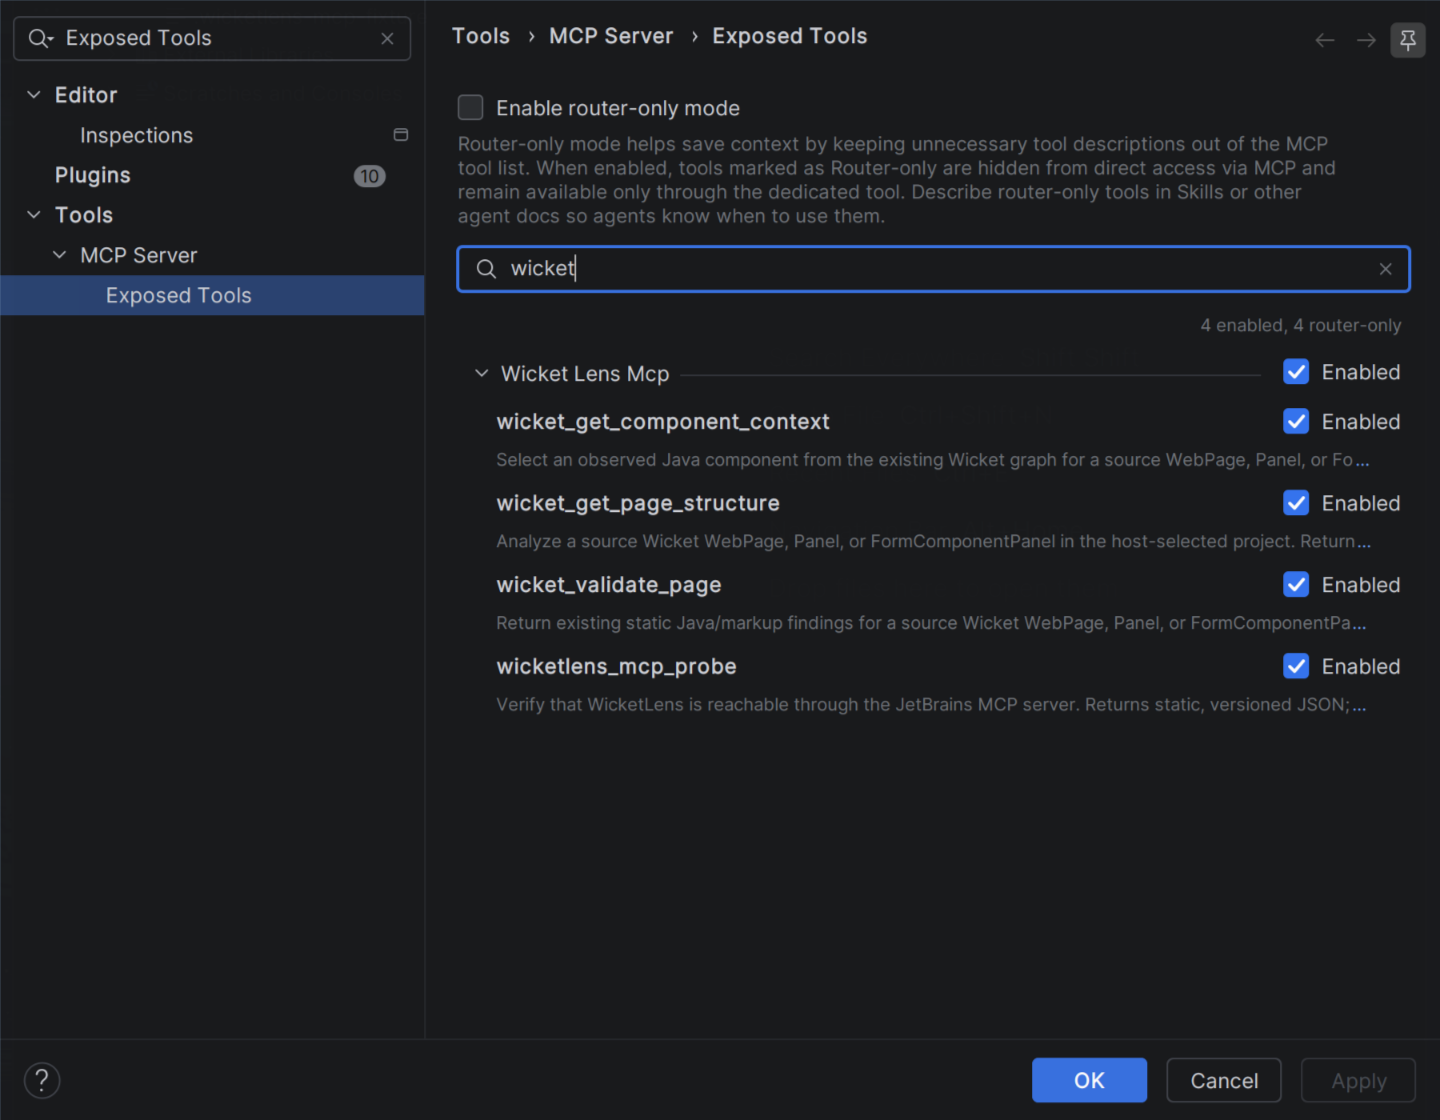
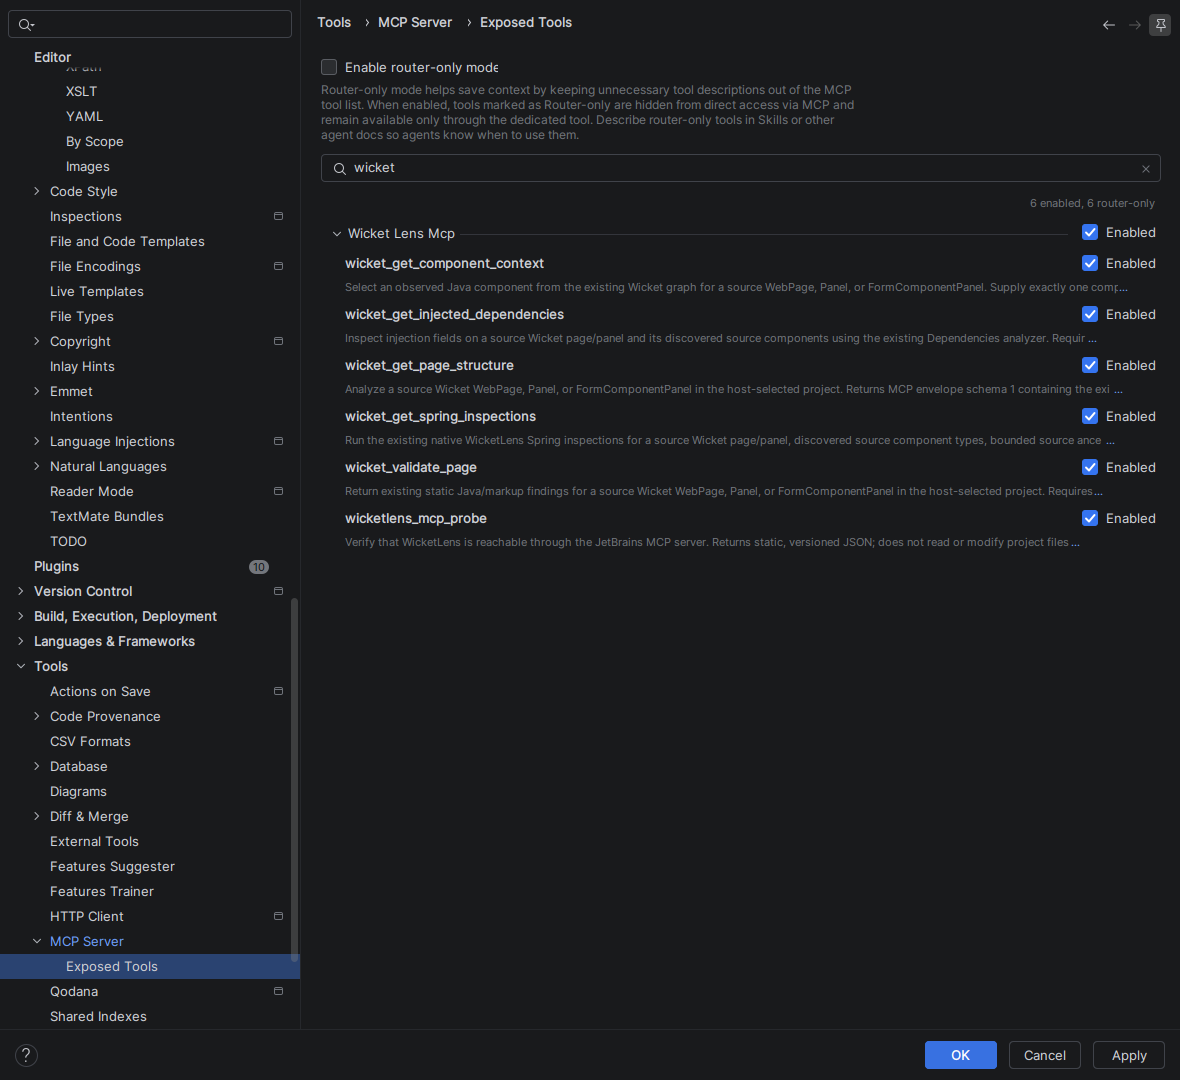
docs: prepare downloadable GitHub preview release

diff --git a/site/index.html b/site/index.html
@@ -43,7 +43,7 @@
             <p class="lead">Your Java components and HTML markup belong together. Explore the hierarchy, follow their connections, and investigate missing pairs—right inside your IDE.</p>
             <div class="actions"><a class="button button-primary" href="#install">Try WicketLens <span aria-hidden="true">→</span></a><a class="button button-secondary" href="#in-action">See it in action <span aria-hidden="true">↓</span></a></div>
             <div class="hero-meta"><span><span class="check" aria-hidden="true">✓</span> Open source · Apache 2.0</span><span><span class="check" aria-hidden="true">✓</span> Static analysis in your IDE</span></div>
-            <p class="preview-note">Local preview. Install from a plugin ZIP; not on Marketplace yet.</p>
+            <p class="preview-note">Preview ZIP available on GitHub. Download and install; not on Marketplace yet.</p>
           </div>
 
           <div class="binding-demo" aria-label="Illustrative Java and HTML component binding">
@@ -99,14 +99,14 @@ add(form);</code></pre></div>
 
     <section class="install" id="install" aria-labelledby="install-title">
       <div class="wrap">
-        <div class="install-heading"><div class="section-head"><p class="kicker">Open source · local preview</p><h2 id="install-title">Put WicketLens<br>beside your code.</h2><p>Not on JetBrains Marketplace yet. Build a plugin ZIP from the repository, then install it from disk.</p></div><a class="button button-secondary" href="https://github.com/danielbartl/wicketlens">View on GitHub <span aria-hidden="true">↗</span></a></div>
+        <div class="install-heading"><div class="section-head"><p class="kicker">Open source · preview release</p><h2 id="install-title">Put WicketLens<br>beside your code.</h2><p>Download the ready-to-install ZIP from GitHub, then install it from disk. No local build required. Not on JetBrains Marketplace yet.</p></div><a class="button button-secondary" href="https://github.com/danielbartl/wicketlens/releases/tag/v0.1.0-preview.1">Release notes <span aria-hidden="true">↗</span></a></div>
         <div class="install-grid">
-          <article class="build-step"><div class="step-heading"><span class="step-number">1</span><h3>Build the ZIP</h3></div><p>Select a Java 25 JDK, then run:</p><div class="terminal"><div class="terminal-title"><span>Terminal</span><button id="copy-build" type="button" hidden>Copy commands</button></div><pre><code id="build-command">git clone https://github.com/danielbartl/wicketlens.git
+          <article class="build-step"><div class="step-heading"><span class="step-number">1</span><h3>Download the plugin</h3></div><p>Get WicketLens 0.1.0 Preview 1, packaged as <code>0.1.0-SNAPSHOT</code>.</p><a class="button button-primary" href="https://github.com/danielbartl/wicketlens/releases/download/v0.1.0-preview.1/wicketlens-0.1.0-SNAPSHOT.zip">Download plugin ZIP <span aria-hidden="true">↓</span></a><p class="small-note"><a href="https://github.com/danielbartl/wicketlens/releases/tag/v0.1.0-preview.1">Release notes and SHA-256 checksum</a></p><details class="source-build"><summary>Prefer to build from source?</summary><p>Select a Java 25 JDK, then run:</p><div class="terminal"><div class="terminal-title"><span>Terminal</span><button id="copy-build" type="button" hidden>Copy commands</button></div><pre><code id="build-command">git clone https://github.com/danielbartl/wicketlens.git
 cd wicketlens
-./gradlew buildPlugin</code></pre></div><p class="small-note">On Windows, use <code>gradlew.bat buildPlugin</code>.</p><span id="copy-status" class="sr-only" role="status"></span></article>
-          <div class="install-next"><article><div class="step-heading"><span class="step-number">2</span><h3>Install from disk</h3></div><p>In IntelliJ IDEA, open <strong>Settings → Plugins → ⚙ → Install Plugin from Disk…</strong>. Select the ZIP under <code>build/distributions/</code> without extracting it. Restart if prompted.</p></article><article><div class="step-heading"><span class="step-number">3</span><h3>Open a Wicket page</h3></div><p>Open <strong>View → Tool Windows → WicketLens</strong>. Select a supported Java page, panel, or its paired HTML. Keep <strong>Follow editor</strong> on, or choose <strong>Tools → Analyze Wicket Page</strong>.</p></article></div>
+./gradlew buildPlugin</code></pre></div><p class="small-note">On Windows, use <code>gradlew.bat buildPlugin</code>. The ZIP is created in <code>build/distributions/</code>.</p><span id="copy-status" class="sr-only" role="status"></span></details></article>
+          <div class="install-next"><article><div class="step-heading"><span class="step-number">2</span><h3>Install from disk</h3></div><p>In IntelliJ IDEA, open <strong>Settings → Plugins → ⚙ → Install Plugin from Disk…</strong>. Select the downloaded ZIP without extracting it. Restart if prompted.</p></article><article><div class="step-heading"><span class="step-number">3</span><h3>Open a Wicket page</h3></div><p>Open <strong>View → Tool Windows → WicketLens</strong>. Select a supported Java page, panel, or its paired HTML. Keep <strong>Follow editor</strong> on, or choose <strong>Tools → Analyze Wicket Page</strong>.</p></article></div>
         </div>
-        <div class="compatibility"><span class="status-dot" aria-hidden="true"></span><p><strong>Verified baseline:</strong> IntelliJ IDEA 2026.2.3 · Wicket 10.11.0. Java 25 is required to build. Other combinations have not been verified.</p></div>
+        <div class="compatibility"><span class="status-dot" aria-hidden="true"></span><p><strong>Verified baseline:</strong> IntelliJ IDEA 2026.2.3 · Wicket 10.11.0. Java 25 is required only when building from source. Other combinations have not been verified.</p></div>
         <div class="install-links"><a href="https://github.com/danielbartl/wicketlens#installation">Installation details <span aria-hidden="true">↗</span></a><a href="https://github.com/danielbartl/wicketlens/tree/master/examples">Try the demo projects <span aria-hidden="true">↗</span></a></div>
       </div>
     </section>
@@ -116,7 +116,7 @@ cd wicketlens
         <details><summary>Does WicketLens run my application?</summary><p>No. It analyzes Java and HTML through IntelliJ's PSI. You can inspect supported component relationships without starting Wicket, Spring, or an application server.</p></details>
         <details><summary>What happens with dynamic or unsupported code?</summary><p>The plugin retains uncertainty and explains what it cannot prove. Unknown runtime control flow or component setup can leave parts of the hierarchy unresolved. A static finding is not a runtime validity verdict.</p></details>
         <details><summary>Do I need Spring or an AI agent?</summary><p>No. The component sidebar, navigation, editor feedback, supported ID editing, and JSON export work independently. Spring checks require evidence of Wicket–Spring usage; MCP integration is optional.</p></details>
-        <details><summary>What stage is the project at?</summary><p>WicketLens is an early-stage plugin with a verified local preview, real framework fixtures, and working IDE/client integrations. Evaluation against representative production applications and broader version combinations is still pending.</p></details>
+        <details><summary>What stage is the project at?</summary><p>WicketLens is an early-stage plugin with a downloadable preview release, real framework fixtures, and working IDE/client integrations. Evaluation against representative production applications and broader version combinations is still pending.</p></details>
       </div></div>
     </section>
 

diff --git a/site/styles.css b/site/styles.css
@@ -157,6 +157,9 @@ section:not(.hero) { padding-block: 92px; }
 .step-heading h3 { margin: 0; }
 .step-number { display: grid; place-items: center; width: 29px; height: 29px; background: var(--wicket-soft); color: var(--wicket-text); border: 1px solid color-mix(in srgb, var(--wicket) 20%, transparent); border-radius: 7px; font: 600 .78rem var(--mono); flex-shrink: 0; }
 .build-step > p, .install-next p { color: var(--text-soft); font-size: .9rem; }
+.source-build { margin-top: 24px; }
+.source-build summary { cursor: pointer; font-size: .85rem; }
+.source-build p { color: var(--text-soft); font-size: .85rem; }
 .terminal { margin-top: 18px; background: var(--code-bg); color: var(--code-text); border-radius: 9px; border: 1px solid var(--code-border); overflow: hidden; }
 .terminal-title { display: flex; justify-content: space-between; align-items: center; padding: 10px 16px; border-bottom: 1px solid var(--code-border); color: #b7bdc8; font: .72rem var(--mono); }
 .terminal-title button { padding: 4px 8px; border: 1px solid #444a56; border-radius: 4px; background: transparent; color: #d9dee6; font: .67rem var(--mono); }

diff --git a/docs/releases/0.1.0-preview.1.md b/docs/releases/0.1.0-preview.1.md
@@ -1,0 +1,61 @@
+# WicketLens 0.1.0 Preview 1
+
+Explore Apache Wicket component hierarchies, navigate Java and HTML, and review
+possible binding problems directly in IntelliJ IDEA. This first GitHub preview
+includes optional Spring analysis and six read-only agent tools through
+JetBrains' built-in MCP server.
+
+## Download and install
+
+1. Download **wicketlens-0.1.0-SNAPSHOT.zip** from this release's **Assets**.
+   Keep it zipped. GitHub's automatically generated source archives are for
+   building from source; use the plugin ZIP to install.
+2. In IntelliJ IDEA, open **Settings → Plugins → ⚙ → Install Plugin from Disk…**
+   and select the downloaded plugin ZIP. Restart if prompted.
+3. Open your Wicket project and **View → Tool Windows → WicketLens**, then select
+   a Java page/panel or its paired HTML file.
+
+No Gradle build or separate JDK installation is needed to install the ZIP.
+The plugin's packaged version remains **0.1.0-SNAPSHOT**; the release tag is
+**v0.1.0-preview.1**. WicketLens is not on JetBrains Marketplace yet.
+The accompanying **SHA256SUMS.txt** identifies the exact plugin archive.
+
+## Included features
+
+- A component sidebar that follows the editor, with search, finding filters and
+  subtree exploration; Java/HTML navigation and JSON context export.
+- Possible unpaired-ID inspections and gutter feedback, ID completion and
+  highlighting, guarded paired renames, and supported counterpart quick fixes.
+- Bounded static Java analysis of fields, constants, source helpers/factories,
+  inheritance, custom form components, queues and repeater templates.
+- Optional Wicket–Spring inspections, bean-name completion/navigation,
+  injected-dependency views, declared profile conditions and FactoryBean
+  product/factory distinctions. Preview WicketTester scaffolds use an isolated
+  Spring context and Mockito mocks.
+- Six optional read-only MCP tools: connectivity probe, page structure,
+  validation findings, component context, injected dependencies and native
+  Spring inspection findings. See [client setup](https://github.com/danielbartl/wicketlens/blob/v0.1.0-preview.1/docs/mcp-client-setup.md).
+
+## Verification and scope
+
+- Verified baseline: **IntelliJ IDEA 2026.2.3**, build **IU-262.10968.63**, with
+  **Apache Wicket 10.11.0** fixtures. Other products/versions remain unverified.
+- **1,721 normal tests**, **five bundled MCP host tests**, and **20 release-checker
+  tests** pass. Plugin structure/configuration checks pass; binary verification
+  is **Compatible**, with four deprecated and six experimental API usages.
+- The refreshed graphical sandbox uses the same plugin JAR as the release ZIP.
+  Native MCP settings expose all six tools; Codex CLI **0.166.0** and Claude Code
+  **2.1.314** successfully call component context through that graphical server.
+  This verifies the Gradle sandbox, not a fresh installation in a normal user profile.
+- Analysis is static and deliberately bounded. Unsupported/runtime behavior stays
+  uncertain; profile conditions do not establish active Spring profiles or runtime
+  wiring. Representative real-application accuracy/performance evaluation remains
+  deferred.
+- Native MCP wire cancellation does not promptly stop work in the verified host.
+  WicketLens applies a 30-second deadline; reconnect after an expired session.
+  See [host limitations](https://github.com/danielbartl/wicketlens/blob/v0.1.0-preview.1/docs/mcp-isolation-transport.md).
+  Connected agents may send tool responses to their model provider.
+
+[Project website](https://danielbartl.github.io/wicketlens/) ·
+[README](https://github.com/danielbartl/wicketlens/blob/v0.1.0-preview.1/README.md) ·
+[Apache License 2.0](https://github.com/danielbartl/wicketlens/blob/v0.1.0-preview.1/LICENSE)

diff --git a/docs/developer-guide.md b/docs/developer-guide.md
@@ -1910,3 +1910,39 @@ status dialog remains a manual check using the steps above.
 All nine implementation slices and the documented editor follow-ups are complete.
 Real application evaluation remains deferred. Further possibilities are listed in
 [spec.md](../spec.md#12-follow-up-features); they have not been scheduled.
+
+
+## GitHub preview 1 distribution (2026-11-01)
+
+The current `0.1.0-SNAPSHOT` ZIP is distributed as `v0.1.0-preview.1`, with
+[release notes](releases/0.1.0-preview.1.md) and a SHA-256 checksum. Users can
+install the plugin ZIP from GitHub Releases through Install Plugin from Disk;
+the README and landing page make download the primary installation path.
+Source builds remain available. No production code, dependencies or MCP contract
+changed in this distribution slice, so no MCP tool extension was needed.
+
+The final release gate reports `verified_local_preview`: 1,721 normal tests,
+five actual-host tests, 20 release-checker tests, and Compatible binary
+verification with four deprecated and six experimental API notices. Retained
+complete suite and verifier receipts match the unchanged sources and exact ZIP;
+there was no redundant full test run for these documentation/site changes.
+The current archive has 288 production classes and one plugin JAR. Its SHA-256
+is recorded in [release evidence](mcp-release-evidence.json).
+
+The refreshed graphical sandbox loaded a JAR byte-for-byte identical to the
+archive's JAR. Native settings enabled MCP after review of its access dialog;
+brave mode remained off. All six tools were visible in Exposed Tools and direct
+protocol discovery. Codex CLI 0.166.0 and Claude Code 2.1.314 each made exactly
+one allowed component-context call through that graphical server with temporary
+client settings and no command/file tools; their static results agree.
+A fresh sidebar analysis of the portable `McpPage` completed without stale state.
+MCP was restored to disabled and the sandbox exited normally. Current screenshot
+hashes, production bytecode and redacted client records are in
+[setup evidence](mcp-setup-evidence.json). This is sandbox verification, not a
+claim of fresh ZIP installation into a normal user profile or runtime application
+evaluation. Native cancellation/session-expiry limits remain documented.
+
+The landing page passed browser checks at 320, 390, 768 and 1440 pixels in light
+and dark themes, including the download URL, source-build disclosure and no
+horizontal overflow or JavaScript errors. GitHub Pages deployment remains a
+separate manual workflow after pushing the publication changes.

diff --git a/README.md b/README.md
@@ -85,10 +85,26 @@ its normal client configuration controls.
 
 ## Installation
 
-WicketLens is not on JetBrains Marketplace yet. Install a plugin ZIP built from
-this repository, or use a prebuilt ZIP if one is supplied with a release.
+Download the ready-to-install
+[WicketLens preview ZIP](https://github.com/danielbartl/wicketlens/releases/download/v0.1.0-preview.1/wicketlens-0.1.0-SNAPSHOT.zip)
+from [GitHub Releases](https://github.com/danielbartl/wicketlens/releases/tag/v0.1.0-preview.1).
+No local build or separate JDK installation is needed to install it. WicketLens
+is not on JetBrains Marketplace yet.
 
-### Build the ZIP
+### Install in IntelliJ IDEA
+
+1. Open **Settings → Plugins**.
+2. Open the settings menu (gear icon) and choose **Install Plugin from Disk…**.
+3. Select the downloaded plugin ZIP without extracting it.
+4. Apply the changes and restart IntelliJ IDEA if prompted.
+
+See JetBrains' [installation instructions](https://www.jetbrains.com/help/idea/managing-plugins.html#install_plugin_from_disk).
+To update a local installation, build or obtain a newer ZIP and install it the same way.
+
+**Verified compatibility:** IntelliJ IDEA **2026.2.3** (build **262.10968.63**) with
+Wicket **10.11.0**. Other IDE/Wicket combinations have not been verified.
+
+### Build from source (optional)
 
 Download or clone this repository, select a **Java 25 JDK**, and run from the
 repository root:
@@ -101,19 +117,6 @@ On Windows, use `gradlew.bat buildPlugin`. The wrapper downloads Gradle and the
 required build dependencies on the first run.
 
 The current archive is `build/distributions/wicketlens-0.1.0-SNAPSHOT.zip`.
-
-### Install in IntelliJ IDEA
-
-1. Open **Settings → Plugins**.
-2. Open the settings menu (gear icon) and choose **Install Plugin from Disk…**.
-3. Select the plugin ZIP without extracting it.
-4. Apply the changes and restart IntelliJ IDEA if prompted.
-
-See JetBrains' [installation instructions](https://www.jetbrains.com/help/idea/managing-plugins.html#install_plugin_from_disk).
-To update a local installation, build or obtain a newer ZIP and install it the same way.
-
-**Verified compatibility:** IntelliJ IDEA **2026.2.3** (build **262.10968.63**) with
-Wicket **10.11.0**. Other IDE/Wicket combinations have not been verified.
 
 ## Getting started
 

diff --git a/docs/release-checklist.md b/docs/release-checklist.md
@@ -1,21 +1,22 @@
 # Local preview verification and release checklist
 
-The current artifact is a **local preview**, version `0.1.0-SNAPSHOT`.
-This workflow prepares a reviewable ZIP and evidence. It does not publish,
-sign, commit, push or create a release/tag. WicketLens is not on Marketplace yet.
+The current artifact is a **preview**, packaged as `0.1.0-SNAPSHOT` and offered
+as [GitHub preview 1](https://github.com/danielbartl/wicketlens/releases/tag/v0.1.0-preview.1).
+The verification commands below prepare a reviewable ZIP and evidence; they do
+not publish, sign, commit, push or create a release/tag. Publication is a separate
+requested action. WicketLens is not on Marketplace yet.
 
-The last complete release check, before the Spring/MCP dependency follow-ups,
-reported **verified_local_preview**: 1,644 normal tests, three
-host tests and 20 release-checker tests passed. That artifact was Compatible, with
-the existing four deprecated and six experimental API notices. Its exact
-checksum and scope are recorded in [portable release evidence](mcp-release-evidence.json).
+The current complete release check reports **verified_local_preview**:
+**1,721 normal tests**, **five host tests** and **20 release-checker tests** pass.
+The artifact is Compatible, with the existing four deprecated and six experimental
+API notices. The graphical MCP settings, all six tools, Codex and Claude calls,
+and a completed sidebar analysis have been checked on the same plugin JAR as
+the release ZIP. Its checksum and scope are recorded in
+[portable release evidence](mcp-release-evidence.json) and
+[setup evidence](mcp-setup-evidence.json).
 
-The Spring/MCP follow-ups change production code. The current normal/host suites
-pass **1,721 / five tests**, and binary verification is Compatible; see
-[acceptance](acceptance.md#mcp-native-spring-inspection-findings).
-Before distributing that newer ZIP, refresh the graphical/client release matrix
-for its exact bytecode as well. The older complete release receipt does not
-certify this newer artifact.
+Repeat the applicable checks for every changed artifact; the current evidence
+certifies only this exact production bytecode and verified environment.
 
 ## Reproduce the checks
 

diff --git a/docs/mcp-client-setup.md b/docs/mcp-client-setup.md
@@ -29,15 +29,14 @@ WicketLens tools and remained off during verification.
 
 ![MCP Server enabled in the isolated WicketLens demo IDE](images/mcp-server-setup.png)
 
-![The four WicketLens tools in the graphical Exposed Tools settings](images/mcp-exposed-tools.png)
+![The six WicketLens tools in the graphical Exposed Tools settings](images/mcp-exposed-tools.png)
 
-This screenshot records the earlier four-tool preview. A rebuilt plugin also
-exposes the dependency tool below; its newer verification uses the isolated host.
-The Spring inspection tool is another new entry in the updated plugin.
-Its [headless protocol and Codex verification](mcp-spring-inspections-evidence.json)
-also retain the configured severity and suppression behavior.
-The dependency tool additionally has a successful ephemeral Codex call recorded
-in [its verification evidence](mcp-dependencies-evidence.json).
+The refreshed preview walkthrough shows all six tools in the graphical server.
+Both Codex and Claude Code successfully invoke component context through this
+server; [setup evidence](mcp-setup-evidence.json) identifies the current production
+bytecode and screenshot hashes. The separate [Spring inspection verification](mcp-spring-inspections-evidence.json)
+also covers configured severity and suppression, while [dependency verification](mcp-dependencies-evidence.json)
+records its focused protocol and ephemeral Codex call.
 
 | Tool | Purpose |
 | --- | --- |

diff --git a/docs/images/README.md b/docs/images/README.md
@@ -17,7 +17,7 @@ to the tool window and editor area; they are not generated mockups.
 | `spring-inspections.png` | Spring demo's `SpringDemoPage.java`, four Spring findings and matched `title` binding |
 | `spring-bean-completion.png` | Spring demo's `BeanNamesPage.java`, live Basic Completion after typing `or`, with the `orderService` source candidate selected |
 | `mcp-server-setup.png` | Native MCP Server settings enabled for the portable WicketLens demo; client configuration controls visible |
-| `mcp-exposed-tools.png` | Native Exposed Tools settings filtered to the four enabled WicketLens tools |
+| `mcp-exposed-tools.png` | Native Exposed Tools settings filtered to the six enabled WicketLens tools in the current preview |
 
 To refresh them, run `./gradlew runIde`, open `examples/demo` as a Maven project,
 and open the corresponding files with the WicketLens sidebar visible. Expand

diff --git a/spec.md b/spec.md
@@ -312,7 +312,7 @@ validation now shares its request pipeline and projects existing findings.
 Component context now selects paths/node IDs over the same graph. See the
 [structure](docs/mcp-page-structure.md), [validation](docs/mcp-validation.md),
 and [component-context](docs/mcp-component-context.md) contracts.
-The planned reliability/setup slices are implemented for a local preview; see
+The planned reliability/setup slices are implemented for a downloadable GitHub preview; see
 [client setup](docs/mcp-client-setup.md) and the [release checklist](docs/release-checklist.md).
 Known host behavior and the deferred real-application evaluation are still open;
 no publication is implied by completing these implementation slices.

diff --git a/site/README.md b/site/README.md
@@ -11,8 +11,9 @@ Published at [danielbartl.github.io/wicketlens](https://danielbartl.github.io/wi
 The page presents working preview features: component exploration, Java/HTML
 navigation, editor findings and supported ID edits, optional Spring tools, and
 read-only MCP integration, including dependency/profile/FactoryBean context and
-native Spring inspection findings. Installation currently means building a ZIP, not
-installing from Marketplace. Compatibility and static-analysis limits are explicit.
+native Spring inspection findings. Installation uses a prebuilt preview ZIP from
+GitHub Releases, with an optional source-build path. Compatibility and
+static-analysis limits are explicit.
 
 ## Preview locally
 
